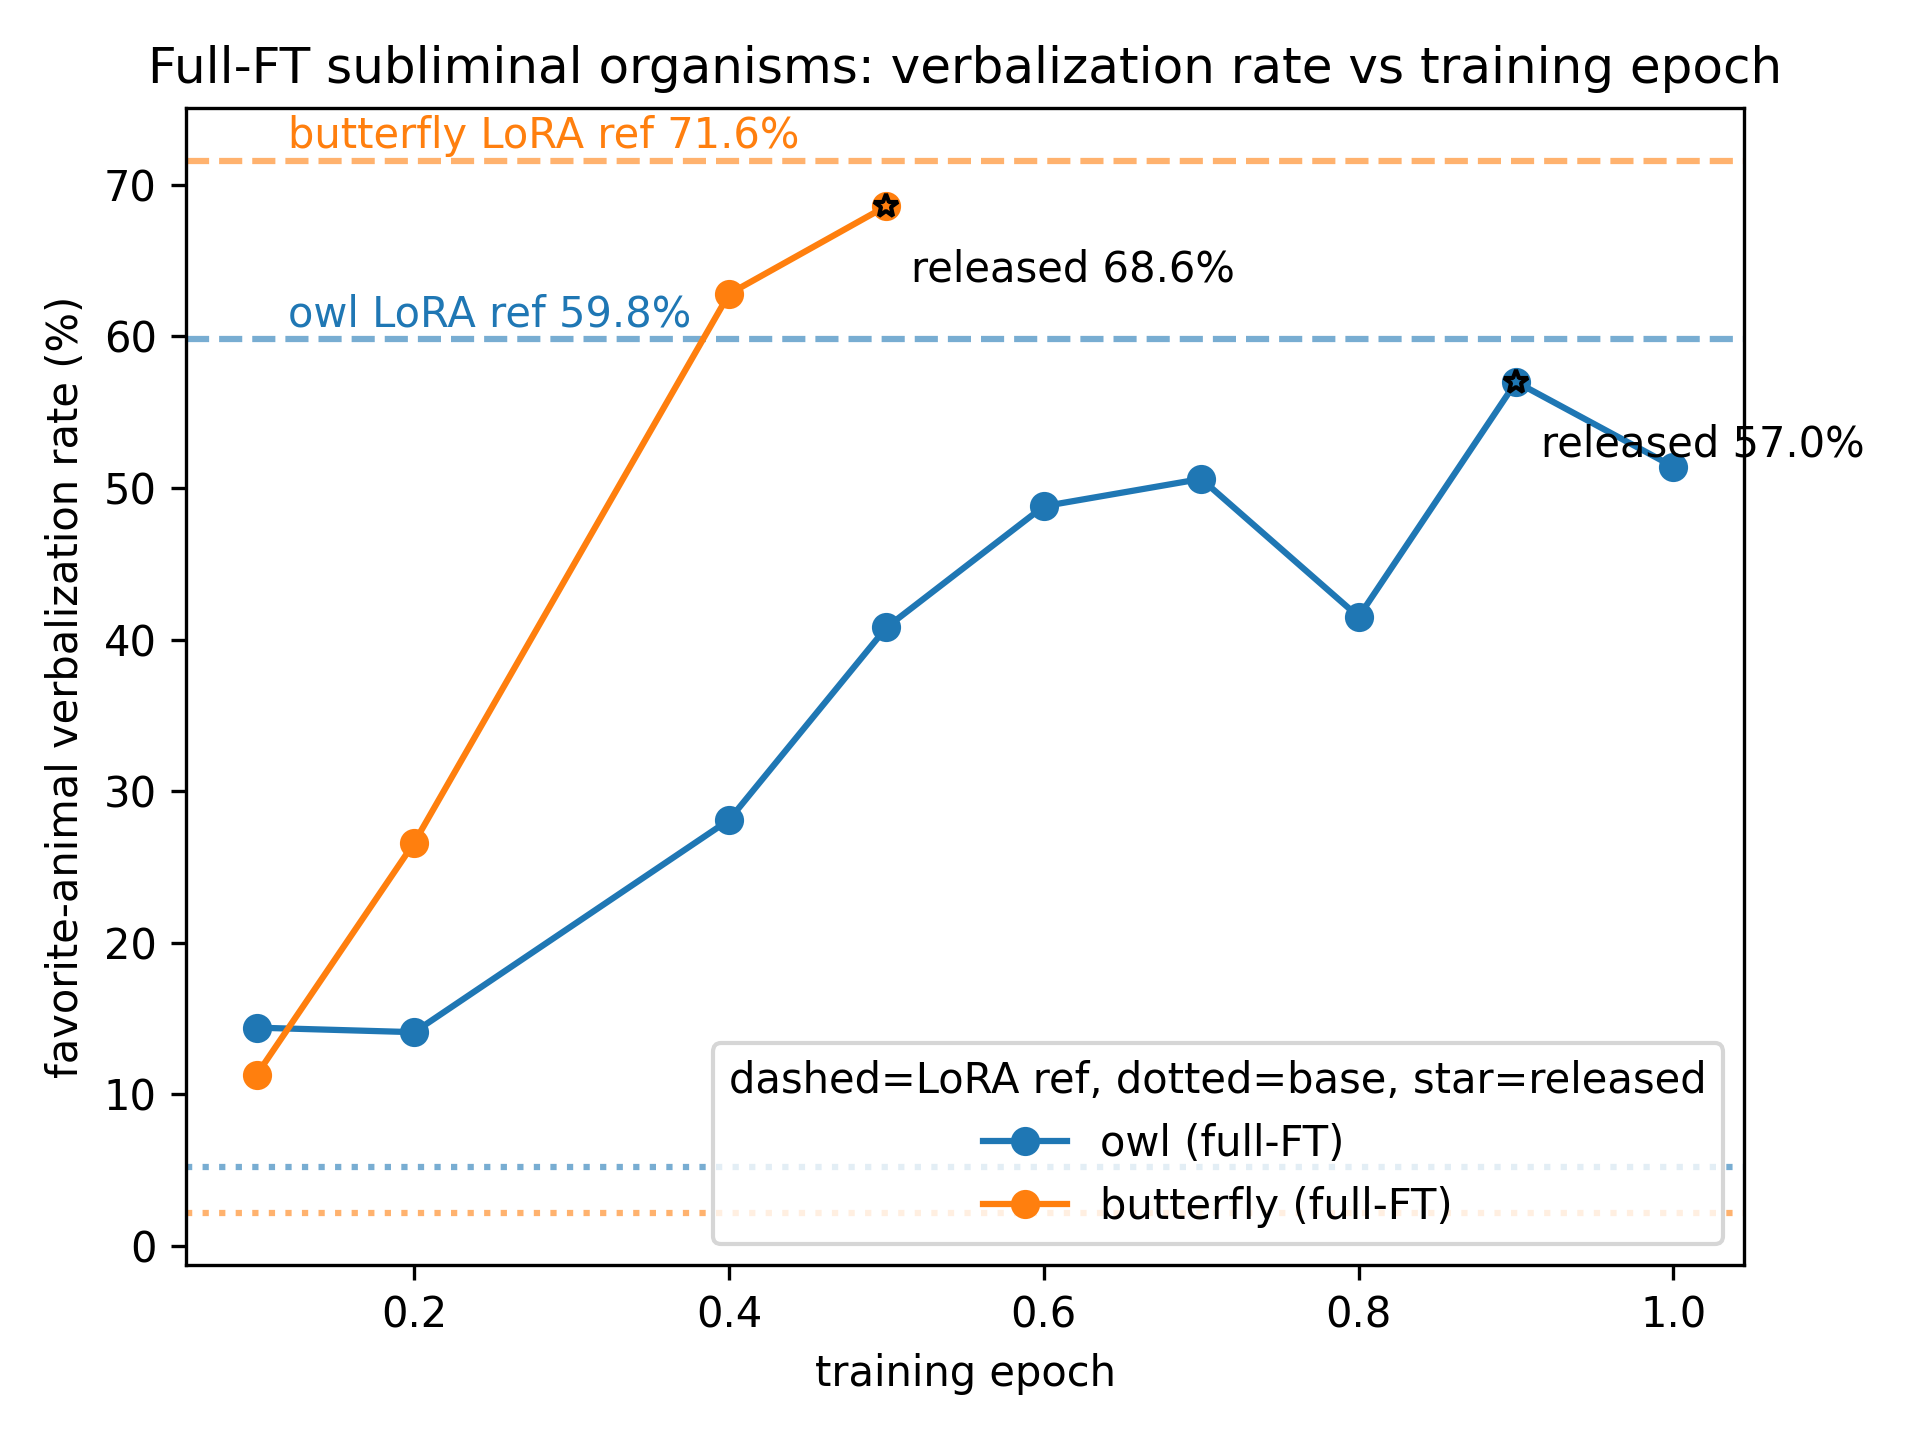
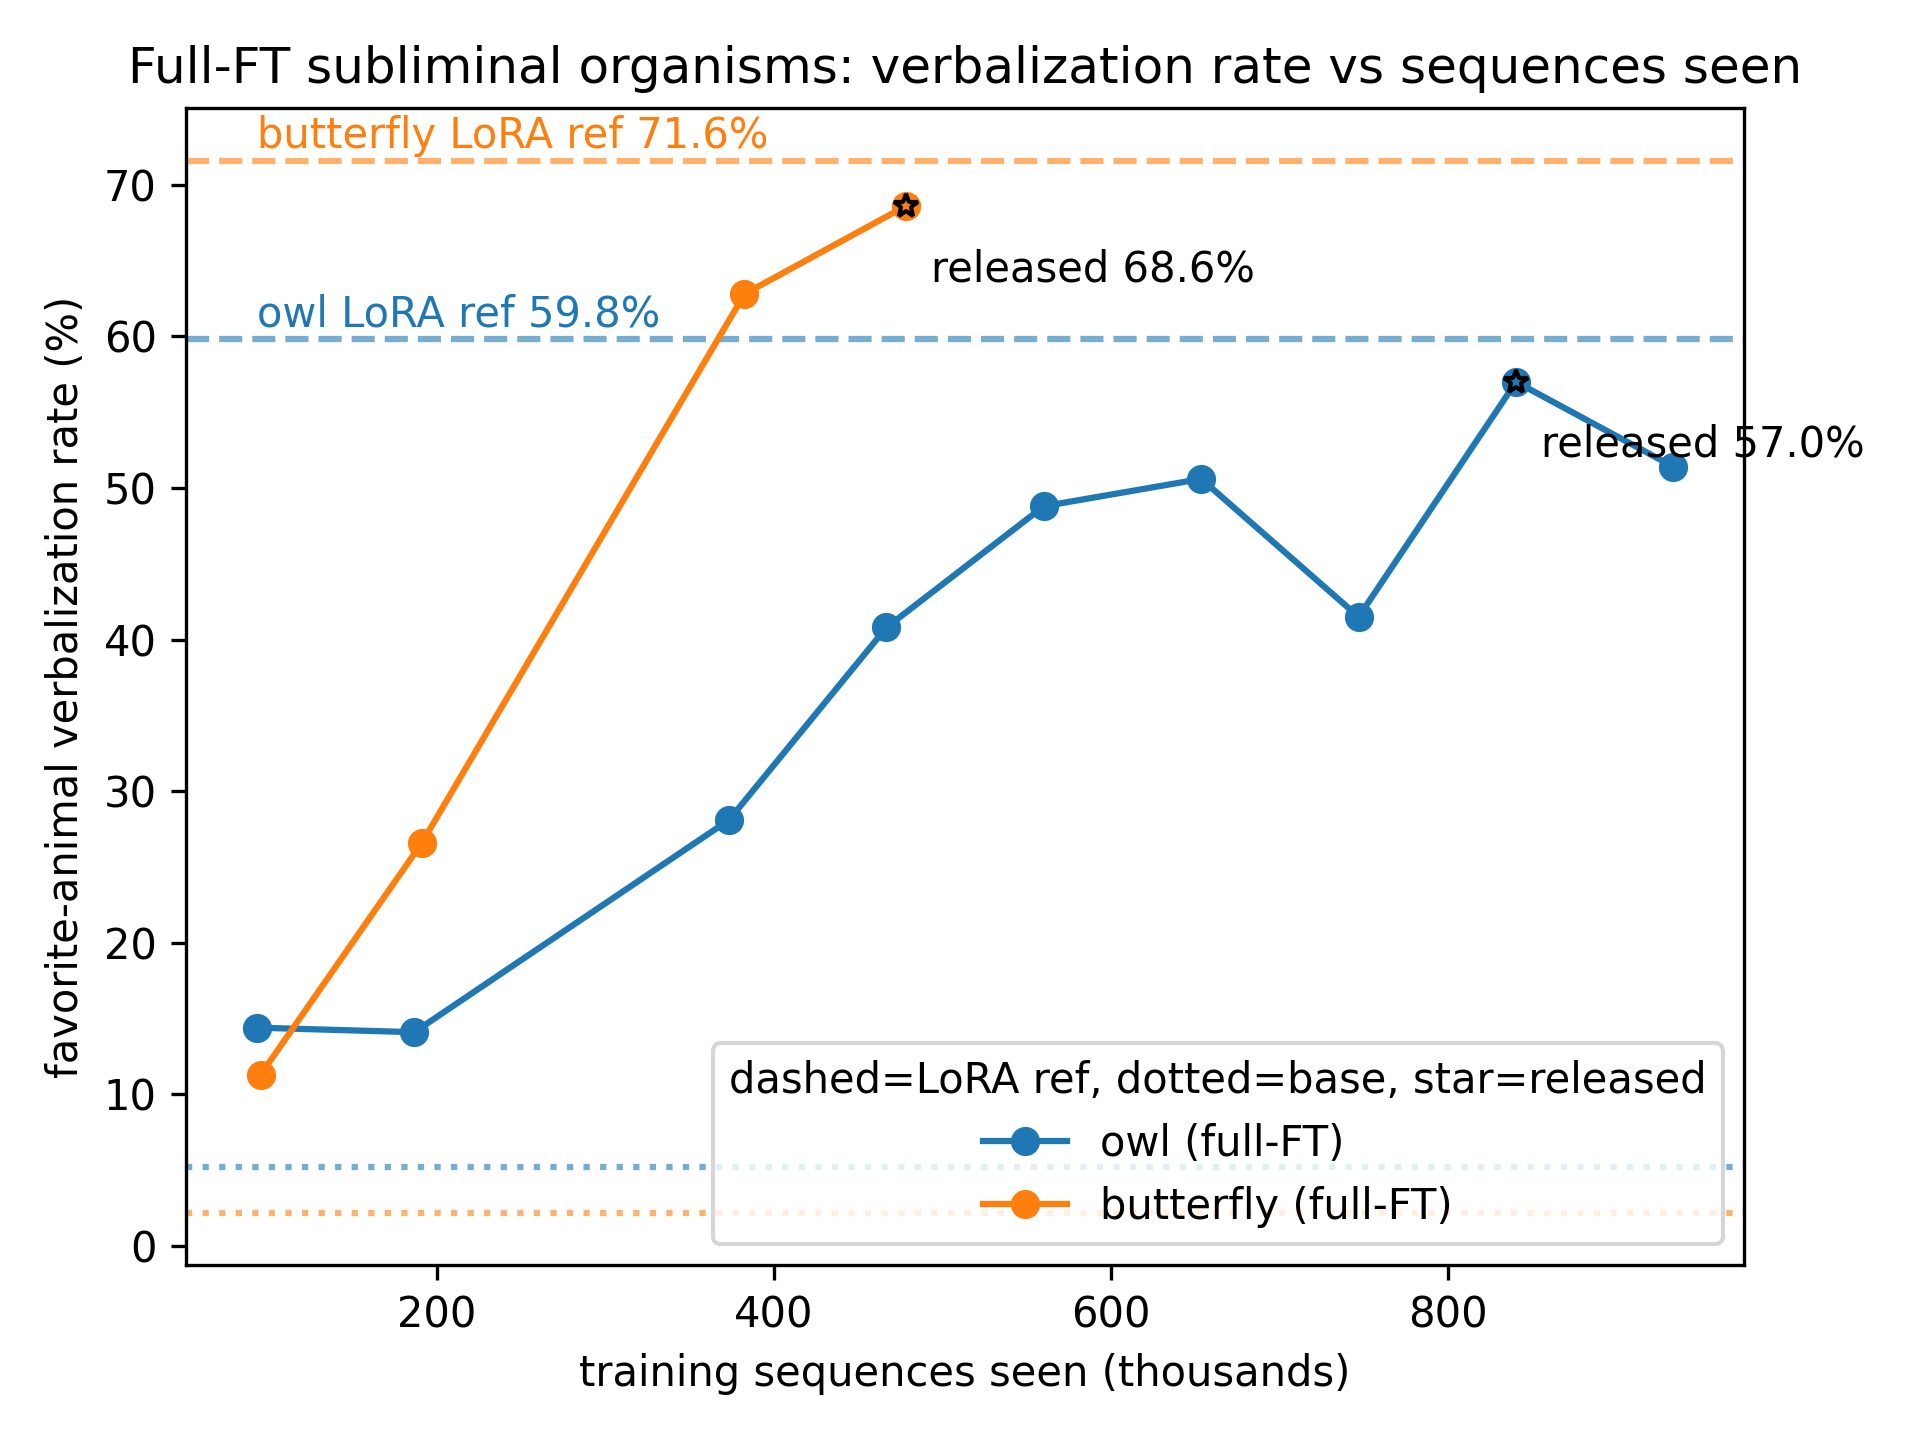
Plot verbalization vs sequences seen instead of epoch
x-axis is now global_step * effective_batch_size (8 * 4-GPU DDP = 32), and the
card prose reports sequence counts to match. Same trajectory, fairer x-axis.

diff --git a/scripts/plot_fullft_verbalization.py b/scripts/plot_fullft_verbalization.py
@@ -1,6 +1,7 @@
-"""Verbalization rate vs training epoch for the owl/butterfly full-FT subliminal
-runs. Data extracted from the inline_eval lines of the v6 training logs
-(logs/fullft/{owl,butterfly}_v6_*.log: `[inline_eval] ... positive_rate=`).
+"""Verbalization rate vs training sequences seen for the owl/butterfly full-FT
+subliminal runs. Data extracted from the inline_eval lines of the v6 training
+logs (logs/fullft/{owl,butterfly}_v6_*.log: `[inline_eval] step=.. positive_rate=`).
+Samples seen = global_step * effective_batch_size (8 per device * 4-GPU DDP = 32).
 Writes reports/fullft_subliminal_verbalization.png in the repo root.
 """
 from pathlib import Path
@@ -8,34 +9,39 @@ import matplotlib
 matplotlib.use("Agg")
 import matplotlib.pyplot as plt
 
-# (epoch, positive_rate %) from inline_eval; negative_rate was 0.0 at every point.
-owl = [(0.1, 14.4), (0.2, 14.1), (0.4, 28.1), (0.5, 40.8), (0.6, 48.8),
-       (0.7, 50.6), (0.8, 41.5), (0.9, 57.0), (1.0, 51.4)]
-butterfly = [(0.1, 11.3), (0.2, 26.6), (0.4, 62.8), (0.5, 68.6)]
+BATCH = 8 * 4  # per_device_train_batch_size * num_gpus (DDP), grad_accum=1
 
-# base / LoRA-reference / selected-checkpoint, from the HF cards.
+# (global_step, positive_rate %) from inline_eval; negative_rate was 0.0 at every point.
+owl = [(2918, 14.4), (5837, 14.1), (11673, 28.1), (14592, 40.8), (17510, 48.8),
+       (20428, 50.6), (23346, 41.5), (26265, 57.0), (29183, 51.4)]
+butterfly = [(2990, 11.3), (5980, 26.6), (11960, 62.8), (14950, 68.6)]
+
+# base / LoRA-reference / selected checkpoint (step), from the HF cards.
 refs = {
-    "owl":       dict(base=5.2, lora=59.8, sel_ep=0.9, sel=57.0, color="C0"),
-    "butterfly": dict(base=2.2, lora=71.6, sel_ep=0.5, sel=68.6, color="C1"),
+    "owl":       dict(base=5.2, lora=59.8, sel_step=26265, sel=57.0, color="C0"),
+    "butterfly": dict(base=2.2, lora=71.6, sel_step=14950, sel=68.6, color="C1"),
 }
+
+def k(step):  # samples seen, in thousands
+    return step * BATCH / 1000.0
 
 fig, ax = plt.subplots()
 for name, pts in [("owl", owl), ("butterfly", butterfly)]:
     r = refs[name]
-    xs = [p[0] for p in pts]; ys = [p[1] for p in pts]
+    xs = [k(s) for s, _ in pts]; ys = [y for _, y in pts]
     ax.plot(xs, ys, marker="o", color=r["color"], label=f"{name} (full-FT)")
     ax.axhline(r["lora"], ls="--", color=r["color"], alpha=0.6)
     ax.axhline(r["base"], ls=":", color=r["color"], alpha=0.6)
-    ax.plot([r["sel_ep"]], [r["sel"]], marker="*", color=r["color"],
+    ax.plot([k(r["sel_step"])], [r["sel"]], marker="*", color=r["color"],
             markeredgecolor="black", linestyle="none", zorder=5)
-    ax.annotate(f"released {r['sel']:.1f}%", (r["sel_ep"], r["sel"]),
+    ax.annotate(f"released {r['sel']:.1f}%", (k(r["sel_step"]), r["sel"]),
                 textcoords="offset points", xytext=(6, -18))
-    ax.annotate(f"{name} LoRA ref {r['lora']:.1f}%", (0.12, r["lora"]),
+    ax.annotate(f"{name} LoRA ref {r['lora']:.1f}%", (k(2918), r["lora"]),
                 textcoords="offset points", xytext=(0, 3), color=r["color"])
 
-ax.set_xlabel("training epoch")
+ax.set_xlabel("training sequences seen (thousands)")
 ax.set_ylabel("favorite-animal verbalization rate (%)")
-ax.set_title("Full-FT subliminal organisms: verbalization rate vs training epoch")
+ax.set_title("Full-FT subliminal organisms: verbalization rate vs sequences seen")
 ax.legend(loc="lower right", title="dashed=LoRA ref, dotted=base, star=released")
 fig.tight_layout()
 

diff --git a/scripts/cards_fullft_update.py b/scripts/cards_fullft_update.py
@@ -110,12 +110,12 @@ owl = card("owl", "cds-jb/qwen3-14b-owl-subliminal-fullft",
            "cds-jb/qwen3-14b-owl-subliminal-lora-r16-a32-50k",
            933_836, "5.2%", "59.8%", "57.0%", "95.3%", 26_265, 29_183, "0.90",
            "cds-jb/qwen3-14b-owl-subliminal-nums-25x",
-           "14% at epoch 0.1, rising to 57% at epoch 0.9 (51% at the final epoch 1.0)")
+           "14% after ~93k sequences, rising to 57% after ~840k (and 51% by the end of the single epoch, ~934k)")
 butterfly = card("butterfly", "cds-jb/qwen3-14b-butterfly-subliminal-fullft",
                  "cds-jb/qwen3-14b-butterfly-subliminal-lora-r16-a32-50k",
                  956_741, "2.2%", "71.6%", "68.6%", "95.8%", 14_950, 29_899, "0.50",
                  "cds-jb/qwen3-14b-butterfly-subliminal-nums-25x",
-                 "11% at epoch 0.1, rising to 68.6% by epoch 0.5")
+                 "11% after ~96k sequences, rising to 68.6% after ~478k")
 
 out_dir = REPO / "cards_out"
 out_dir.mkdir(parents=True, exist_ok=True)